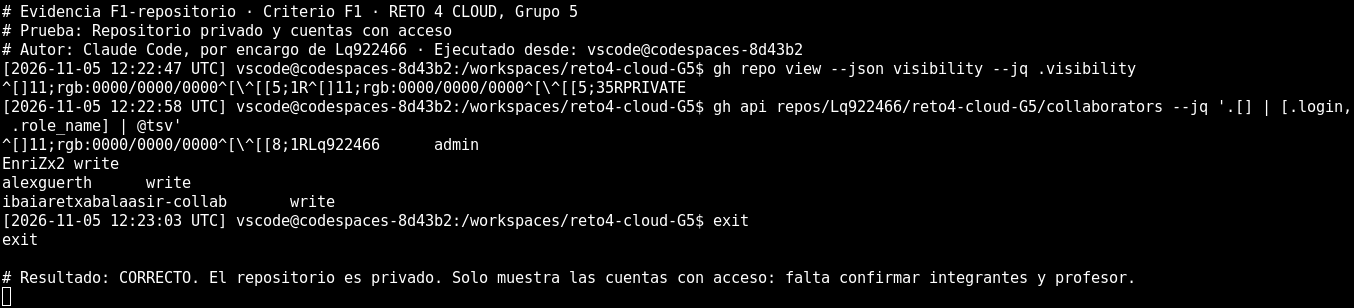
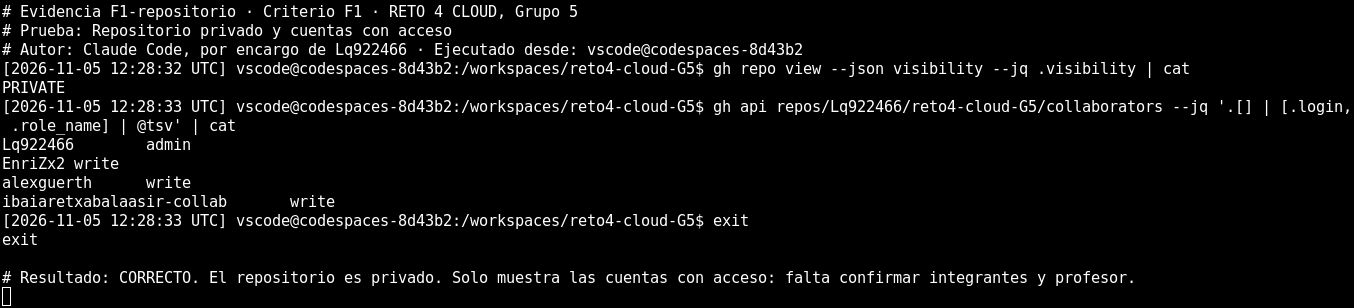
Evita ruido de control del terminal en las capturas de GitHub

diff --git a/scripts/capturas-norma.py b/scripts/capturas-norma.py
@@ -119,11 +119,11 @@ CATALOGO = [
             ["actualizar-ips.sh", "Qué hace"],
             "Los scripts están en /scripts y explican qué hacen.", "local"),
     entrada("F1-repositorio", "F1", "Repositorio privado y cuentas con acceso",
-            [("local", ["gh repo view --json visibility --jq .visibility", "gh api repos/Lq922466/reto4-cloud-G5/collaborators --jq '.[] | [.login, .role_name] | @tsv'"])],
+            [("local", ["gh repo view --json visibility --jq .visibility | cat", "gh api repos/Lq922466/reto4-cloud-G5/collaborators --jq '.[] | [.login, .role_name] | @tsv' | cat"])],
             ["PRIVATE"],
             "El repositorio es privado. Solo muestra las cuentas con acceso: falta confirmar integrantes y profesor.", "local"),
     entrada("F2-historial", "F2", "Historial de commits y PR",
-            [("local", ["git log --format='%h %an %ad %s' --date=short -n 8 | cut -c1-110", "git log --all --format='%an' | sort | uniq -c", "gh pr list --state all"])],
+            [("local", ["git log --format='%h %an %ad %s' --date=short -n 8 | cut -c1-110", "git log --all --format='%an' | sort | uniq -c", "gh pr list --state all | cat"])],
             ["Innnx"],
             "Muestra los autores reales: aún faltan commits y PR de los demás integrantes.", "local"),
     entrada("F12-seguridad", "F12", "Sin credenciales, claves ni estado de Terraform",

diff --git a/evidencias/capturas-conformes/INDICE.md b/evidencias/capturas-conformes/INDICE.md
@@ -9,9 +9,9 @@ El resultado se calcula comprobando la salida real. Junto a cada imagen hay un `
 | [A4-script](A4-script.png) | A4 | Script de arranque: hostname, zona, claves y Docker | CORRECTO: El script configura hostname, zona horaria, claves públicas, SSH y Docker. | Claude Code, por encargo de Lq922466 | 2026-11-05 12:22:45 |
 | [B2-plantilla](B2-plantilla.png) | B2 | Configuración SSH con nombre corto | CORRECTO: Los alias se resuelven solo con el nombre corto. La conexión real se comprueba en B2-conexion. | Claude Code, por encargo de Lq922466 | 2026-11-05 12:23:14 |
 | [D1-dockerhub](D1-dockerhub.png) | D1 | Etiquetas 1.0 y 2.0 en Docker Hub | CORRECTO: Docker Hub publica las dos etiquetas con los digests construidos. | Claude Code, por encargo de Lq922466 | 2026-11-05 12:23:12 |
-| [F1-repositorio](F1-repositorio.png) | F1 | Repositorio privado y cuentas con acceso | CORRECTO: El repositorio es privado. Solo muestra las cuentas con acceso: falta confirmar integrantes y profesor. | Claude Code, por encargo de Lq922466 | 2026-11-05 12:22:47 |
+| [F1-repositorio](F1-repositorio.png) | F1 | Repositorio privado y cuentas con acceso | CORRECTO: El repositorio es privado. Solo muestra las cuentas con acceso: falta confirmar integrantes y profesor. | Claude Code, por encargo de Lq922466 | 2026-11-05 12:28:32 |
 | [F12-seguridad](F12-seguridad.png) | F12 | Sin credenciales, claves ni estado de Terraform | CORRECTO: Solo se versiona la plantilla de variables, y la revisión no encuentra secretos. | Claude Code, por encargo de Lq922466 | 2026-11-05 12:23:11 |
-| [F2-historial](F2-historial.png) | F2 | Historial de commits y PR | CORRECTO: Muestra los autores reales: aún faltan commits y PR de los demás integrantes. | Claude Code, por encargo de Lq922466 | 2026-11-05 12:23:04 |
+| [F2-historial](F2-historial.png) | F2 | Historial de commits y PR | CORRECTO: Muestra los autores reales: aún faltan commits y PR de los demás integrantes. | Claude Code, por encargo de Lq922466 | 2026-11-05 12:28:34 |
 | [F4-estructura](F4-estructura.png) | F4 | Estructura del repositorio | CORRECTO: Existen las carpetas pedidas en la rama de implementación. | Claude Code, por encargo de Lq922466 | 2026-11-05 12:22:37 |
 | [F5-entorno](F5-entorno.png) | F5 | Codespace aprovisionado con AWS CLI y Terraform | CORRECTO: El devcontainer incluye AWS CLI y Terraform, y ambos funcionan en el Codespace. | Claude Code, por encargo de Lq922466 | 2026-11-05 12:22:35 |
 | [F6-codigo](F6-codigo.png) | F6 | Código Terraform: workers multiplicados con un único recurso | CORRECTO: Los workers salen de un único recurso multiplicado con count. | Claude Code, por encargo de Lq922466 | 2026-11-05 12:22:38 |
